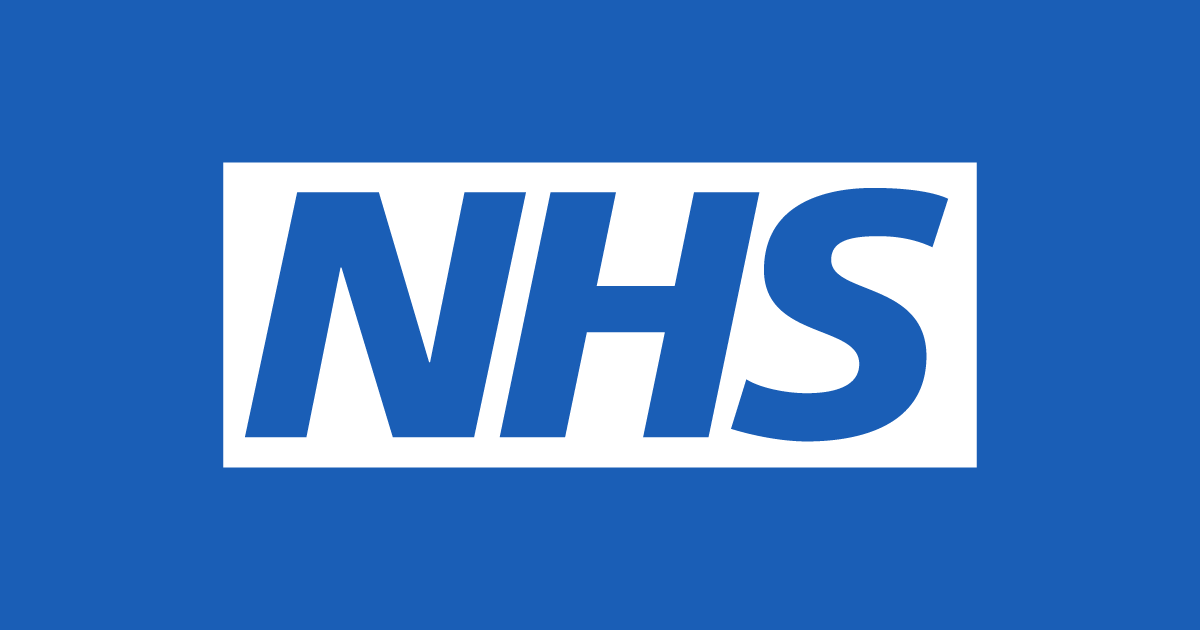
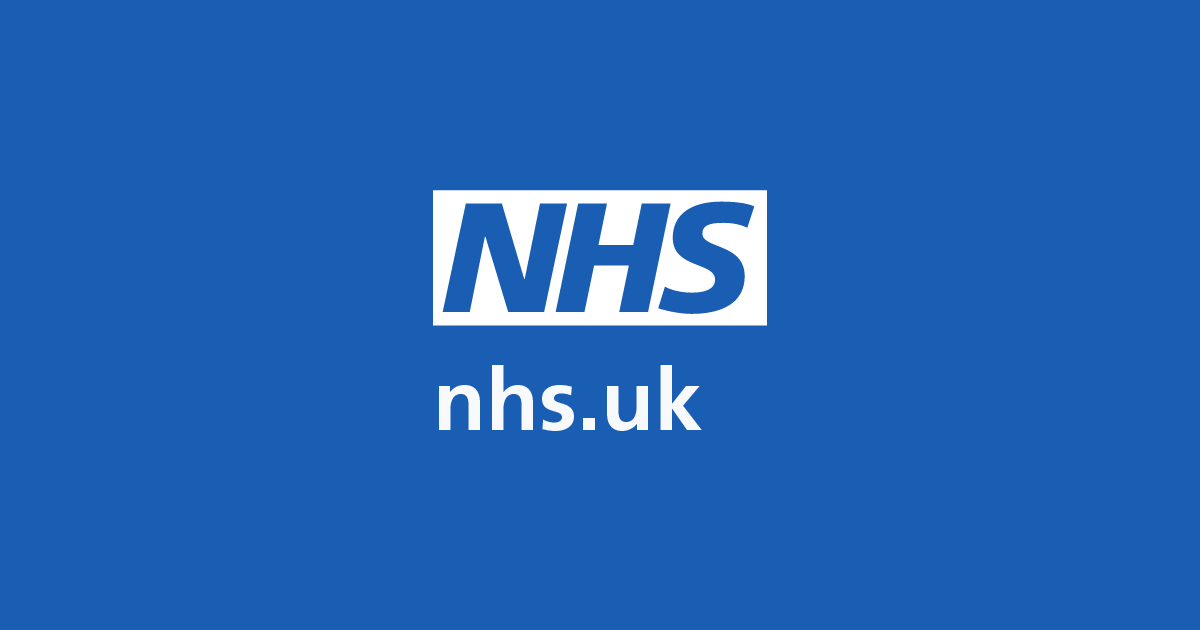
use the latest NHS website Open Graph assets and metadata

Changed region(s): [[0.185, 0.2413, 0.8325, 0.754]]

diff --git a/CHANGELOG.md b/CHANGELOG.md
@@ -5,6 +5,7 @@
 :wrench: **Fixes**
 
 - Use the latest version of the NHS.UK frontend library (v2.3.0)
+- Use the latest NHS website Open Graph assets and metadata
 
 ## 1.6.1 - 22 July 2019
 
